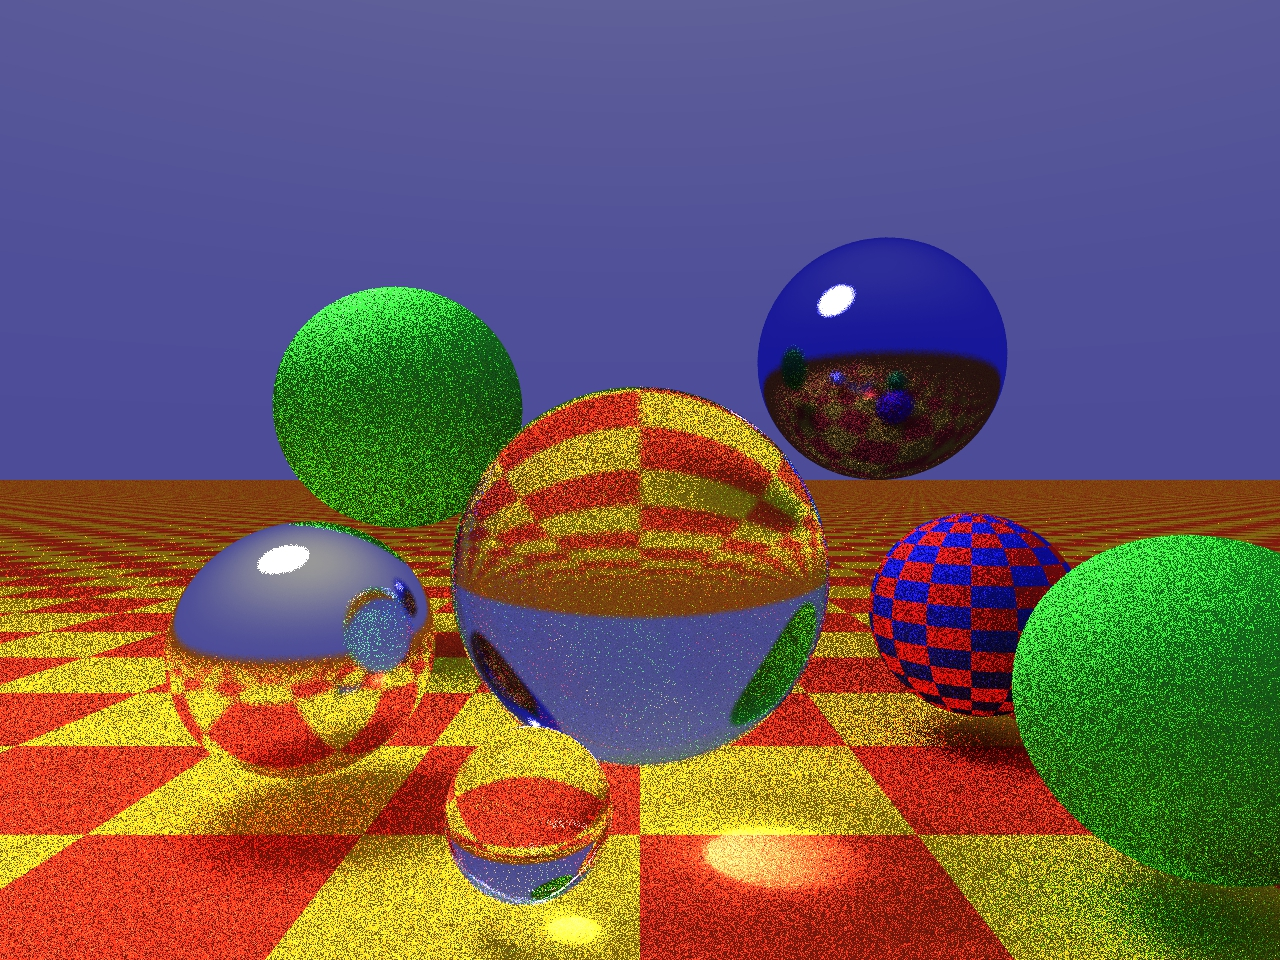
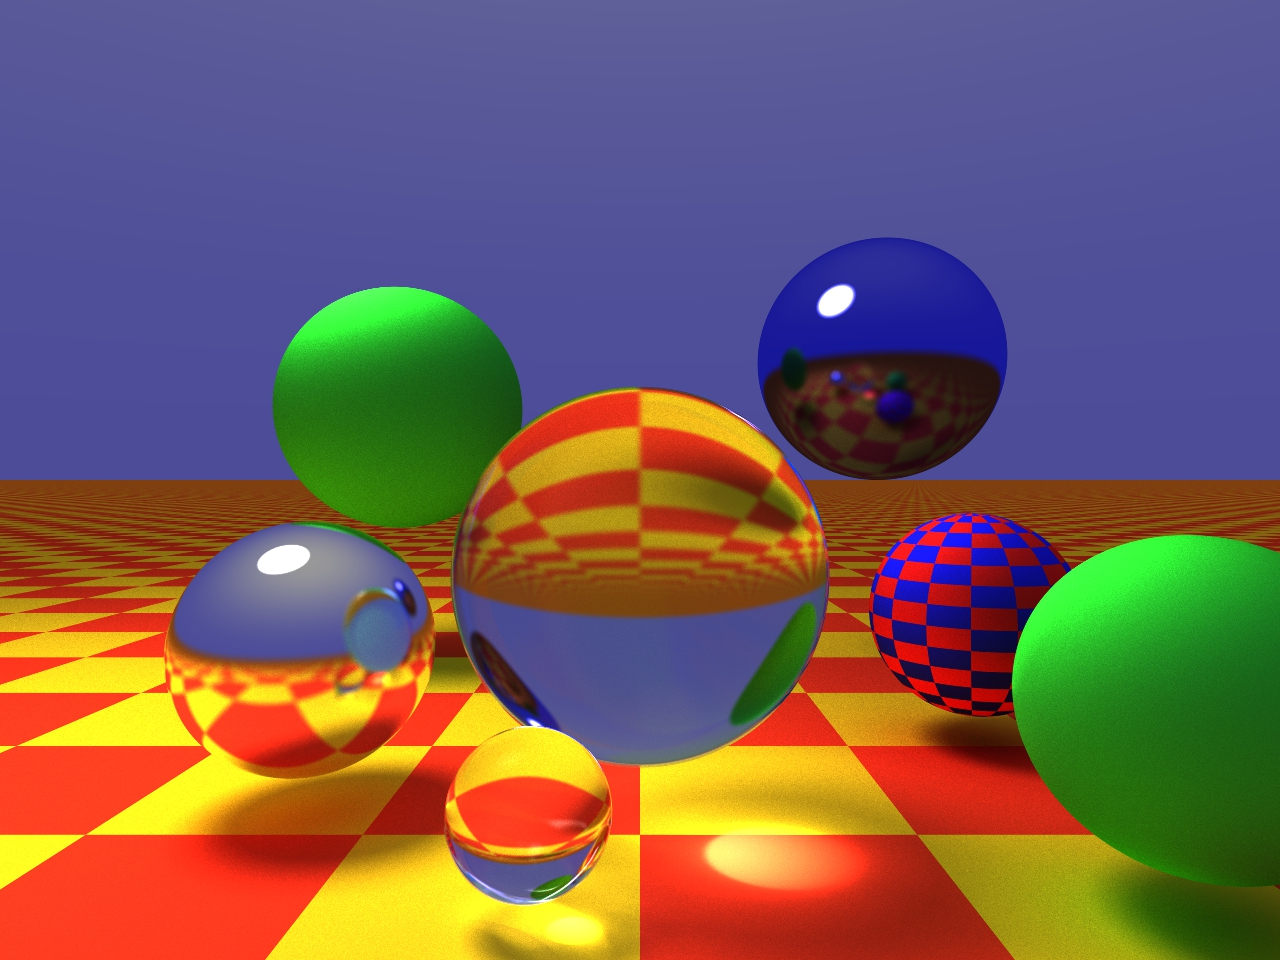
working on refraction/glass

diff --git a/main.cpp b/main.cpp
@@ -365,7 +365,7 @@ int raytracer()
     int height = 960;
     int fov = 60;
     int numWorkers = 16;
-    int samplesPerPixel = 16;
+    int samplesPerPixel = 4096;
     int maxTraceDepth = 32;
 
     // init
